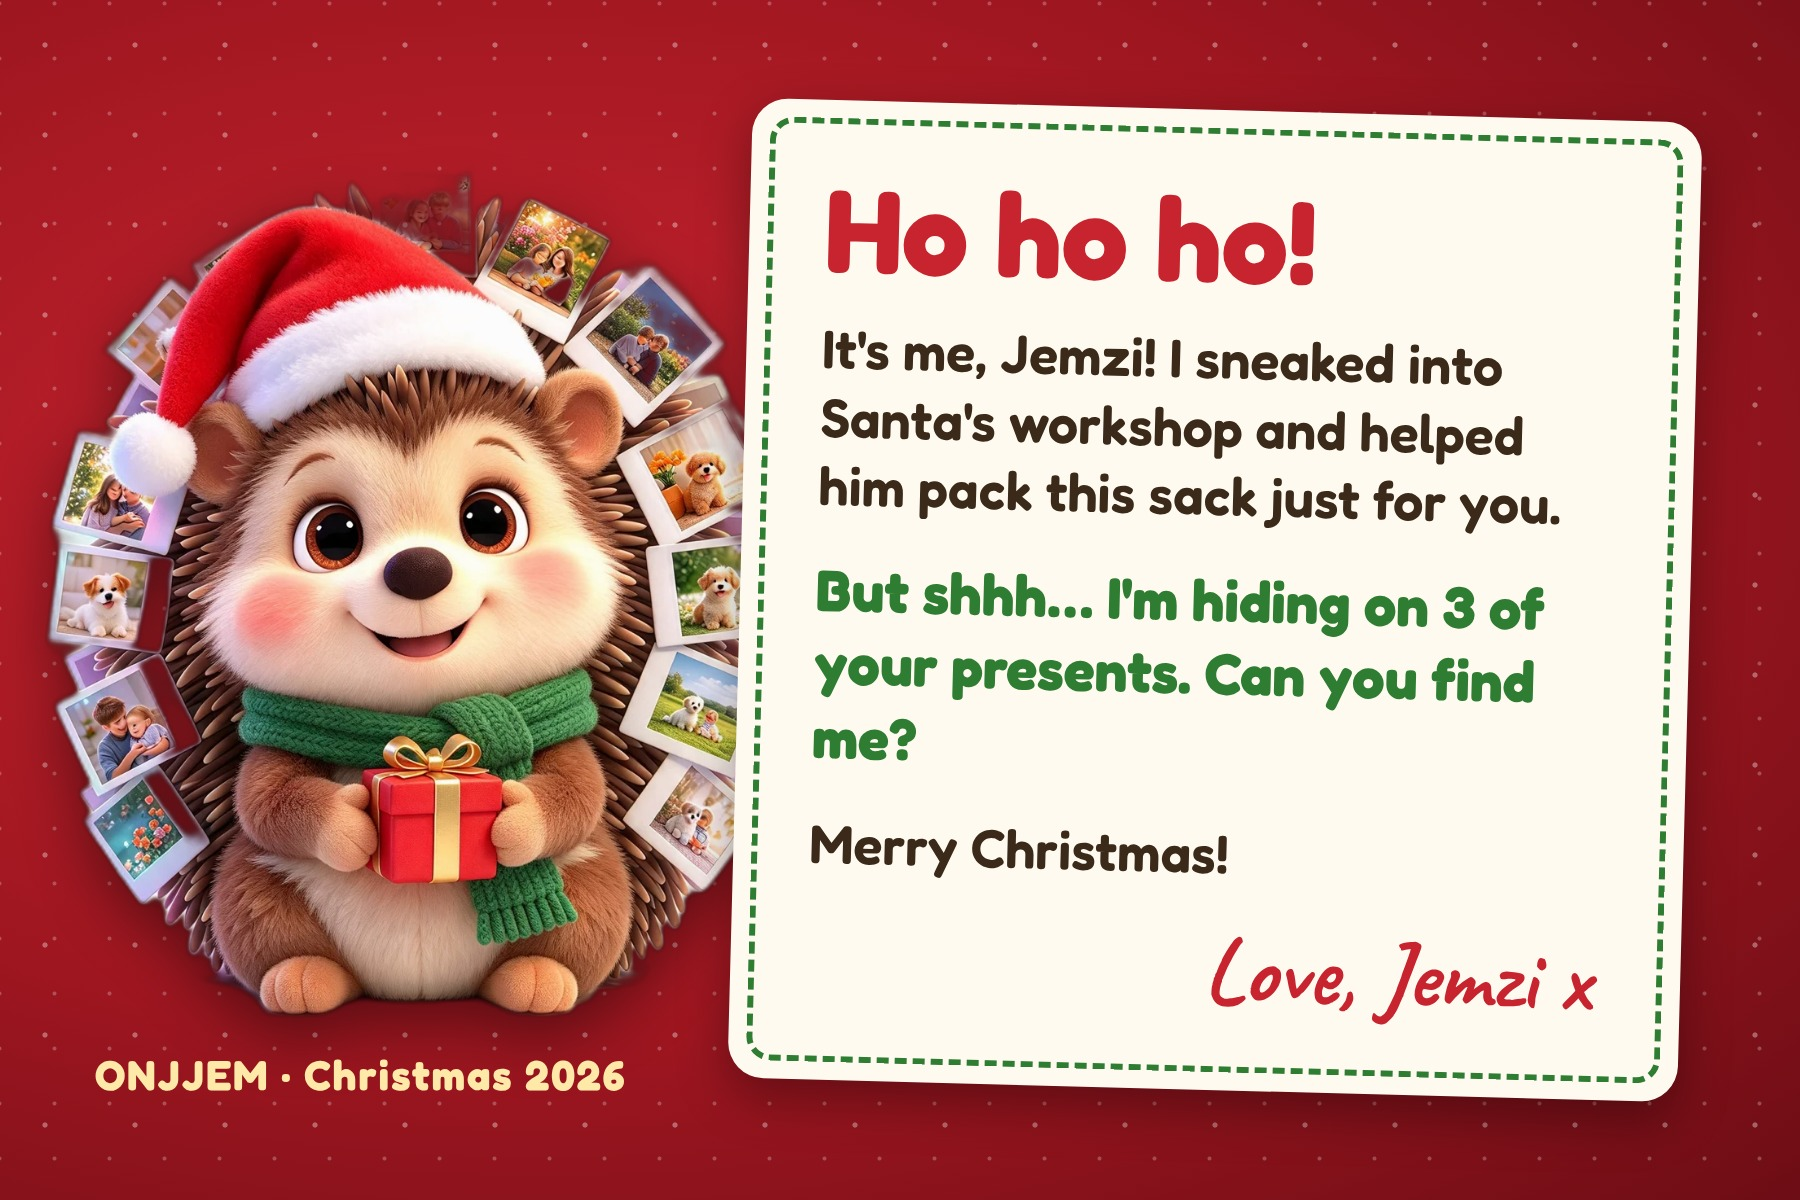
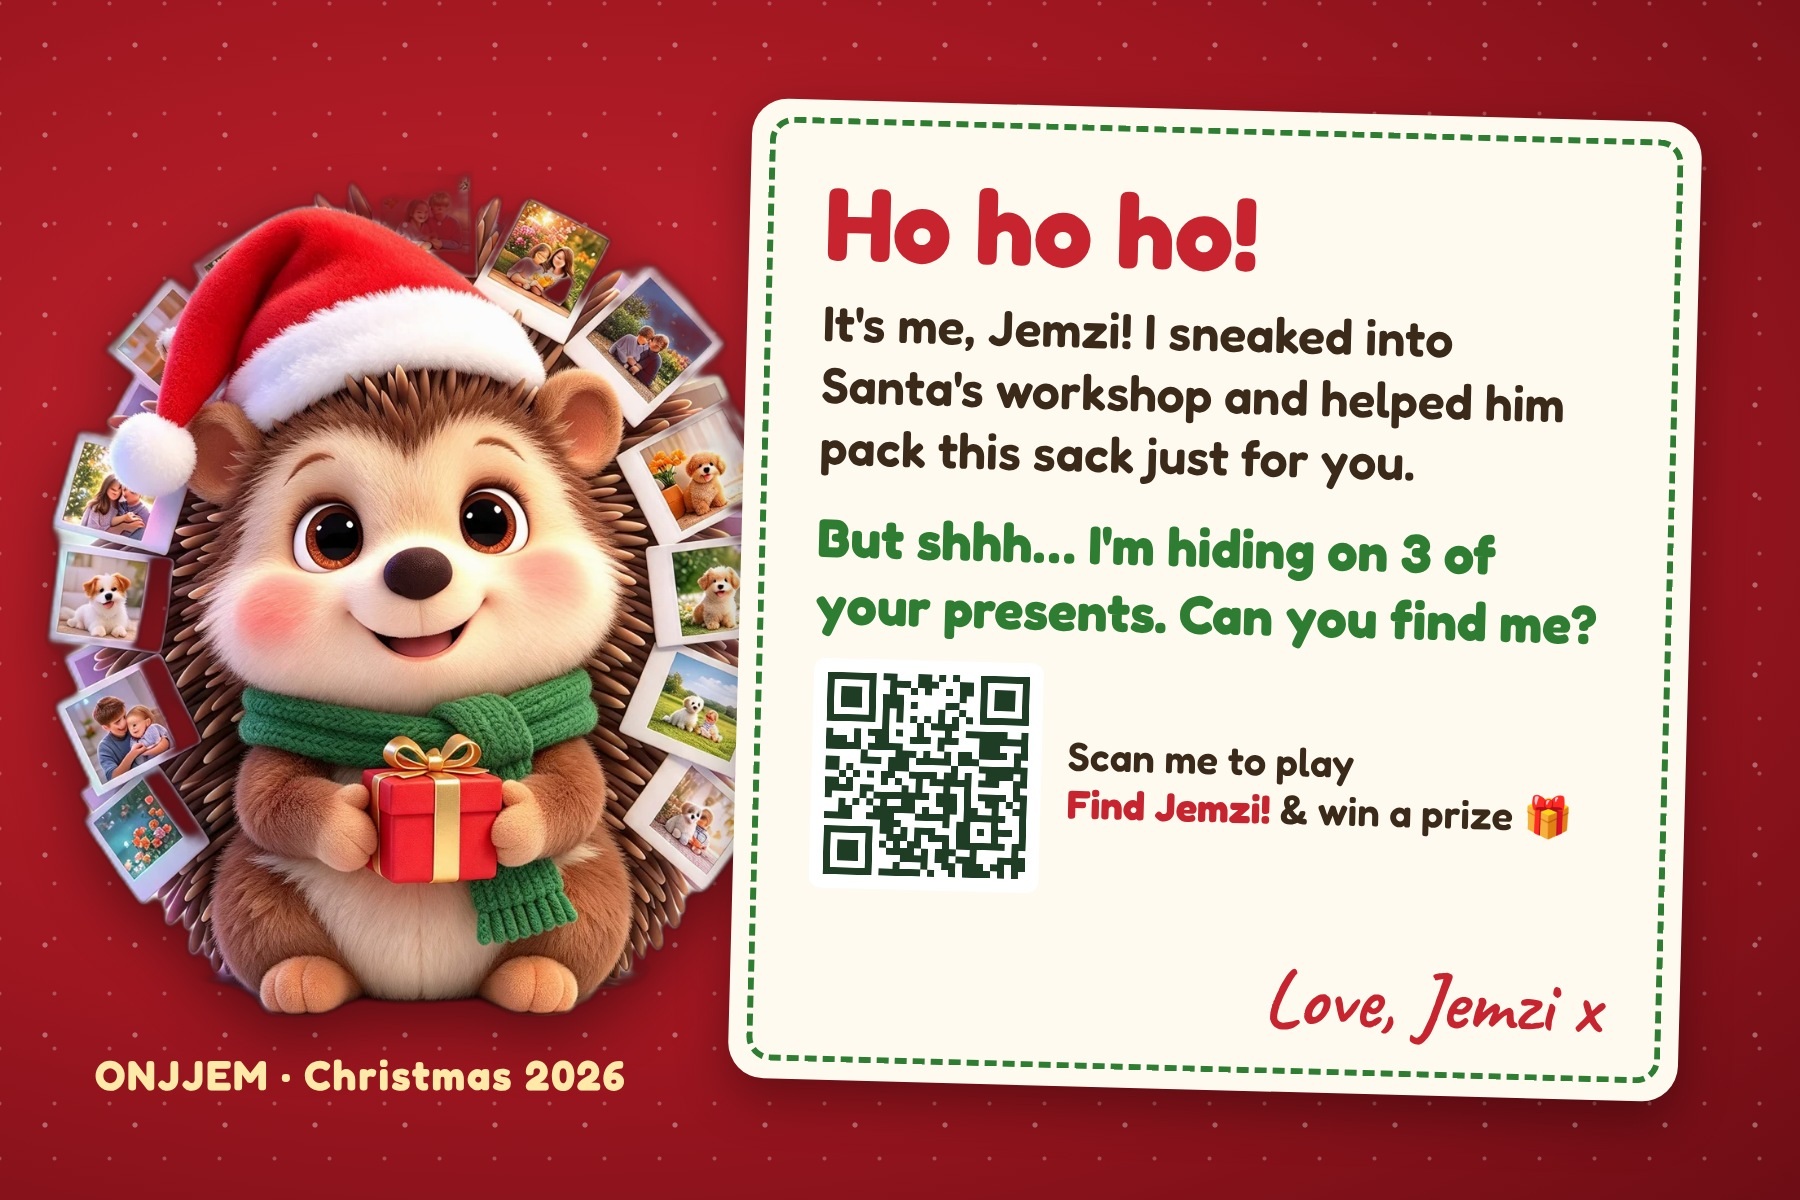
Find Jemzi game page, puzzle picture, QR code on Jemzi letter
Claude-Session: https://claude.ai/code/session_01TR3d9yNoxjp8svav5kqEco

Changed region(s): [[0.4356, 0.1542, 0.9022, 0.74], [0.6533, 0.7708, 0.9022, 0.8633]]

diff --git a/find-jemzi.html b/find-jemzi.html
@@ -1,0 +1,194 @@
+<!DOCTYPE html>
+<html lang="en">
+<head>
+<link rel="icon" type="image/png" href="/jemzi-64.png"><link rel="apple-touch-icon" href="/apple-touch-icon-jemzi.png">
+<meta charset="UTF-8">
+<meta name="viewport" content="width=device-width, initial-scale=1.0">
+<title>Find Jemzi! | ONJJEM</title>
+<meta name="description" content="Did you find Jemzi hiding on your presents? Get your Official Jemzi Finder certificate and enter the free Find Jemzi draw to win a personalised cartoon blanket.">
+<link rel="canonical" href="https://onjjem.com/find-jemzi">
+<meta property="og:title" content="🦔 Can you find Jemzi?">
+<meta property="og:description" content="Find Jemzi, get your certificate and enter the free draw to win a cartoon blanket.">
+<meta property="og:image" content="https://onjjem.com/jemzi-letter-postcard.jpg">
+<script async src="https://www.googletagmanager.com/gtag/js?id=G-3L30Q5L3MW"></script>
+<script>
+  window.dataLayer = window.dataLayer || [];
+  function gtag(){dataLayer.push(arguments);}
+  gtag('js', new Date());
+  try { if (localStorage.getItem('onjjem_notrack')) window['ga-disable-G-3L30Q5L3MW'] = true; } catch (e) {}
+  gtag('config', 'G-3L30Q5L3MW');
+</script>
+<style>
+  :root { --red:#c8242f; --green:#1f6b3a; --cream:#fffaf0; --ink:#3b2a1a; --gold:#f3d078; }
+  * { box-sizing:border-box; }
+  body { margin:0; font-family:"Trebuchet MS",system-ui,-apple-system,sans-serif; color:var(--ink);
+    background:radial-gradient(ellipse at top,#c8242f 0%,#8f141d 55%,#5c0b12 100%) fixed; min-height:100vh; }
+  .wrap { max-width:560px; margin:0 auto; padding:16px 16px 40px; }
+  .brand { text-align:center; color:var(--gold); letter-spacing:.2em; font-weight:800; font-size:13px; margin:6px 0 0; }
+  .hero { text-align:center; color:#fff; }
+  .hero img { width:190px; filter:drop-shadow(0 10px 18px rgba(0,0,0,.4)); margin-top:6px; }
+  h1 { font-size:34px; margin:4px 0 6px; }
+  .hero p { margin:0 auto; max-width:440px; font-size:17px; color:#ffe9e9; }
+  .card { background:var(--cream); border-radius:20px; padding:18px; margin-top:16px; box-shadow:0 10px 30px rgba(0,0,0,.25); }
+  .card h2 { margin:0 0 6px; font-size:22px; color:var(--red); }
+  .card p { margin:4px 0 10px; }
+  .spots { display:grid; grid-template-columns:repeat(3,1fr); gap:10px; }
+  .spot { border:3px dashed #d9c9a8; background:#fff; border-radius:16px; padding:14px 6px; text-align:center; font-weight:800; font-size:15px; cursor:pointer; color:var(--ink); }
+  .spot .e { font-size:34px; display:block; }
+  .spot.on { border:3px solid var(--green); background:#e9f7ee; }
+  .spot.on .t:after { content:" ✅"; }
+  .count { text-align:center; font-weight:800; color:var(--green); margin-top:10px; font-size:17px; }
+  .puzzle { position:relative; border-radius:14px; overflow:hidden; cursor:crosshair; }
+  .puzzle img { width:100%; display:block; }
+  .ring { position:absolute; width:22%; aspect-ratio:1; border:5px solid #ffd54a; border-radius:50%; transform:translate(-50%,-50%); display:none; box-shadow:0 0 0 4px rgba(0,0,0,.25); }
+  .miss { text-align:center; font-weight:700; color:#8f141d; min-height:22px; margin-top:6px; }
+  .hide { display:none; }
+  .win { text-align:center; }
+  .win .big { font-size:30px; font-weight:900; color:var(--green); margin:4px 0; }
+  input[type=text], input[type=email] { width:100%; padding:13px; border-radius:12px; border:2px solid #e2d6bd; font-size:17px; margin:6px 0; }
+  label.ck { display:flex; gap:8px; align-items:flex-start; font-size:14.5px; margin:8px 0; }
+  label.ck input { width:20px; height:20px; margin-top:1px; flex:0 0 auto; }
+  .btn { display:block; width:100%; text-align:center; border:0; border-radius:14px; padding:15px; font-size:18px; font-weight:900; cursor:pointer; text-decoration:none; margin-top:10px; }
+  .go { background:var(--red); color:#fff; }
+  .gr { background:var(--green); color:#fff; }
+  .code { display:inline-block; background:#fff; border:3px dashed var(--red); border-radius:12px; padding:8px 16px; font-size:24px; font-weight:900; letter-spacing:.1em; color:var(--red); margin:6px 0; }
+  .msg { font-weight:700; margin-top:8px; }
+  .small { font-size:12.5px; color:#6b5a48; }
+  .terms { color:#ffe1e1; font-size:12.5px; margin-top:22px; }
+  .terms a { color:var(--gold); }
+  .terms ol { padding-left:18px; }
+  canvas { display:none; }
+  #confetti { position:fixed; inset:0; pointer-events:none; display:block; }
+</style>
+</head>
+<body>
+<canvas id="confetti"></canvas>
+<div class="wrap">
+  <div class="brand">ONJJEM · UK FAMILY BUSINESS</div>
+  <div class="hero">
+    <img src="/jemzi-tpl-xmas.webp" alt="Jemzi the hedgehog in a Santa hat">
+    <h1>Can you find Jemzi? 🔍</h1>
+    <p>Jemzi sneaked into Santa's workshop and hid on <b>3 presents</b> in your Santa sack. Tap each place you found him!</p>
+  </div>
+
+  <div class="card" id="hunt">
+    <h2>Where was Jemzi hiding?</h2>
+    <div class="spots">
+      <div class="spot" data-s="bauble"><span class="e">🎄</span><span class="t">Bauble</span></div>
+      <div class="spot" data-s="cards"><span class="e">🃏</span><span class="t">Playing cards</span></div>
+      <div class="spot" data-s="magnet"><span class="e">🧲</span><span class="t">Magnet</span></div>
+    </div>
+    <div class="count" id="count">Found 0 of 3</div>
+  </div>
+
+  <div class="card" id="nosack">
+    <h2>No Santa sack? Play here!</h2>
+    <p>Jemzi is hiding in this picture too. Tap him when you spot him.</p>
+    <div class="puzzle" id="puzzle"><img src="/find-jemzi-puzzle.jpg" alt="A Christmas bauble picture with Jemzi hiding somewhere"><div class="ring" id="ring"></div></div>
+    <div class="miss" id="miss"></div>
+  </div>
+
+  <div class="card win hide" id="win">
+    <div class="big">🎉 You found Jemzi! 🎉</div>
+    <p>You're an <b>Official Jemzi Finder</b>. Type your name to get your certificate.</p>
+    <input type="text" id="kid" maxlength="24" placeholder="Your first name" autocomplete="off">
+    <button class="btn gr" id="cert">⬇ Get my certificate</button>
+  </div>
+
+  <div class="card hide" id="draw">
+    <h2>🎁 Free Find Jemzi draw</h2>
+    <p>Every Jemzi finder can be entered into our free draw to <b>win a personalised cartoon blanket</b> of the family or pet. Drawn Mon 1 February 2027.</p>
+    <p class="small"><b>Grown-ups:</b> please fill this in for your Jemzi finder.</p>
+    <form id="f" novalidate>
+      <input type="text" name="name" maxlength="60" placeholder="Grown-up's name" required>
+      <input type="email" name="email" maxlength="200" placeholder="Grown-up's email" required>
+      <input type="text" name="website" class="hide" tabindex="-1" autocomplete="off">
+      <label class="ck"><input type="checkbox" name="adult"> I'm 18 or over and live in the UK</label>
+      <label class="ck"><input type="checkbox" name="marketing"> Send me ONJJEM offers by email (optional, doesn't affect your chances)</label>
+      <button class="btn go" type="submit">Enter the draw</button>
+      <div class="msg" id="fmsg"></div>
+    </form>
+  </div>
+
+  <div class="card hide" id="gift" style="text-align:center">
+    <h2>A thank-you from Jemzi 🦔</h2>
+    <p>15% off your next ONJJEM gift with code</p>
+    <div class="code">THANKYOU15</div>
+    <a class="btn go" href="/">See ONJJEM gifts →</a>
+  </div>
+
+  <div class="terms">
+    <b>Find Jemzi draw: the short rules</b>
+    <ol>
+      <li>Free to enter and no purchase is necessary. Anyone can enter by finding Jemzi in the picture on this page.</li>
+      <li>Open to UK residents aged 18 or over, who can enter on behalf of a child. One entry per email address.</li>
+      <li>Closes 8pm UK time on Sunday 31 January 2027. One winner is picked at random on Monday 1 February 2027 and contacted by email. If they don't reply within 14 days, we'll draw again.</li>
+      <li>Prize: one personalised cartoon blanket made from a photo the winner sends us, delivered free in the UK. No cash alternative.</li>
+      <li>We use your details only to run the draw (and to send offers if you tick that box). See our <a href="/privacy.html">privacy policy</a>. Promoter: ONJJEM, hello@onjjem.com.</li>
+    </ol>
+  </div>
+</div>
+<canvas id="c"></canvas>
+<script>
+(function(){
+  var found = {}, done = false;
+  function track(e){ try{ gtag('event', e); }catch(x){} }
+  function count(){ var n = Object.keys(found).length; document.getElementById('count').textContent = n >= 3 ? 'All 3 found! 🎉' : 'Found ' + n + ' of 3'; if (n >= 3) win(); }
+  document.querySelectorAll('.spot').forEach(function(s){
+    s.addEventListener('click', function(){
+      var k = s.getAttribute('data-s');
+      if (found[k]) { delete found[k]; s.classList.remove('on'); } else { found[k] = 1; s.classList.add('on'); }
+      count();
+    });
+  });
+  // Free-entry picture: Jemzi is centred at 79% across, 66% down.
+  var pz = document.getElementById('puzzle'), ring = document.getElementById('ring'), miss = document.getElementById('miss'), tries = 0;
+  pz.addEventListener('click', function(ev){
+    var r = pz.getBoundingClientRect(), x = (ev.clientX - r.left) / r.width, y = (ev.clientY - r.top) / r.height;
+    if (Math.hypot(x - 0.79, y - 0.66) < 0.08) { ring.style.left = '79%'; ring.style.top = '66%'; ring.style.display = 'block'; miss.textContent = 'There he is! 🦔'; win(); }
+    else { tries++; miss.textContent = tries > 2 ? 'Hint: look near the golden lights on the right ✨' : 'Not there… keep looking! 👀'; }
+  });
+  function win(){
+    if (done) return; done = true; track('jemzi_found');
+    ['win', 'draw', 'gift'].forEach(function(id){ document.getElementById(id).classList.remove('hide'); });
+    confetti(); setTimeout(function(){ document.getElementById('win').scrollIntoView({ behavior: 'smooth', block: 'center' }); }, 300);
+  }
+  function confetti(){
+    var c = document.getElementById('confetti'), g = c.getContext('2d'); c.width = innerWidth; c.height = innerHeight;
+    var cols = ['#ffd54a', '#ffffff', '#2e9d55', '#ff6b6b', '#7cc6ff'], ps = [];
+    for (var i = 0; i < 160; i++) ps.push({ x: Math.random() * c.width, y: -20 - Math.random() * c.height, v: 2 + Math.random() * 4, s: 4 + Math.random() * 6, c: cols[i % cols.length], w: Math.random() * 6 });
+    var t = 0; (function f(){ g.clearRect(0, 0, c.width, c.height); ps.forEach(function(p){ p.y += p.v; p.x += Math.sin((t + p.w * 10) / 12); g.fillStyle = p.c; g.fillRect(p.x, p.y, p.s, p.s * 0.6); }); if (++t < 260) requestAnimationFrame(f); else g.clearRect(0, 0, c.width, c.height); })();
+  }
+  function load(src){ return new Promise(function(ok, no){ var i = new Image(); i.onload = function(){ ok(i); }; i.onerror = no; i.src = src; }); }
+  document.getElementById('cert').addEventListener('click', async function(){
+    var name = (document.getElementById('kid').value || '').trim().slice(0, 24) || 'A Super Finder';
+    var c = document.getElementById('c'), W = 1600, H = 1131; c.width = W; c.height = H; var g = c.getContext('2d');
+    g.fillStyle = '#fffaf0'; g.fillRect(0, 0, W, H);
+    g.strokeStyle = '#c8242f'; g.lineWidth = 26; g.strokeRect(30, 30, W - 60, H - 60);
+    g.strokeStyle = '#1f6b3a'; g.lineWidth = 6; g.setLineDash([22, 14]); g.strokeRect(70, 70, W - 140, H - 140); g.setLineDash([]);
+    try { var j = await load('/jemzi-tpl-xmas.webp'); var jw = 420, jh = jw * j.height / j.width; g.drawImage(j, W - jw - 110, H - jh - 110, jw, jh); } catch (e) {}
+    g.textAlign = 'center'; g.fillStyle = '#c8242f'; g.font = '900 92px "Trebuchet MS",sans-serif'; g.fillText('Official Jemzi Finder', W / 2 - 120, 250);
+    g.fillStyle = '#3b2a1a'; g.font = '700 46px "Trebuchet MS",sans-serif'; g.fillText('This certificate is proudly awarded to', W / 2 - 120, 360);
+    g.fillStyle = '#1f6b3a'; g.font = '900 120px "Trebuchet MS",sans-serif'; g.fillText(name, W / 2 - 120, 520, 1000);
+    g.fillStyle = '#3b2a1a'; g.font = '700 44px "Trebuchet MS",sans-serif';
+    g.fillText('for finding Jemzi hiding at Christmas!', W / 2 - 120, 630);
+    g.font = '600 36px "Trebuchet MS",sans-serif'; g.fillText('Signed, Jemzi 🦔 & the ONJJEM elves', W / 2 - 120, 790); g.fillText('Christmas 2026', W / 2 - 120, 845);
+    var a = document.createElement('a'); a.download = 'jemzi-finder-certificate.png'; a.href = c.toDataURL('image/png'); a.click(); track('jemzi_certificate');
+  });
+  document.getElementById('f').addEventListener('submit', async function(ev){
+    ev.preventDefault(); var f = ev.target, m = document.getElementById('fmsg');
+    if (!f.adult.checked) { m.textContent = 'Please tick the box to confirm you\'re 18+ and in the UK.'; return; }
+    var d = { name: f.name.value, email: f.email.value, child: (document.getElementById('kid').value || '').trim(), adult: true, uk: true, found: true, marketing: f.marketing.checked, website: f.website.value };
+    m.textContent = 'Entering…';
+    try {
+      var r = await fetch('/api/jemzi-entry', { method: 'POST', headers: { 'Content-Type': 'application/json' }, body: JSON.stringify(d) });
+      var j = await r.json();
+      if (!r.ok) { m.textContent = j.error || 'Something went wrong, please try again.'; return; }
+      f.innerHTML = '<p style="font-size:19px;color:#1f6b3a;font-weight:900">🎉 You\'re in the draw! Good luck 🍀</p><p>' + (j.already ? '(You were already entered, one entry per email.)' : 'Check your email for confirmation.') + '</p>';
+      track('jemzi_entry');
+    } catch (e) { m.textContent = 'Something went wrong, please try again.'; }
+  });
+})();
+</script>
+</body>
+</html>
